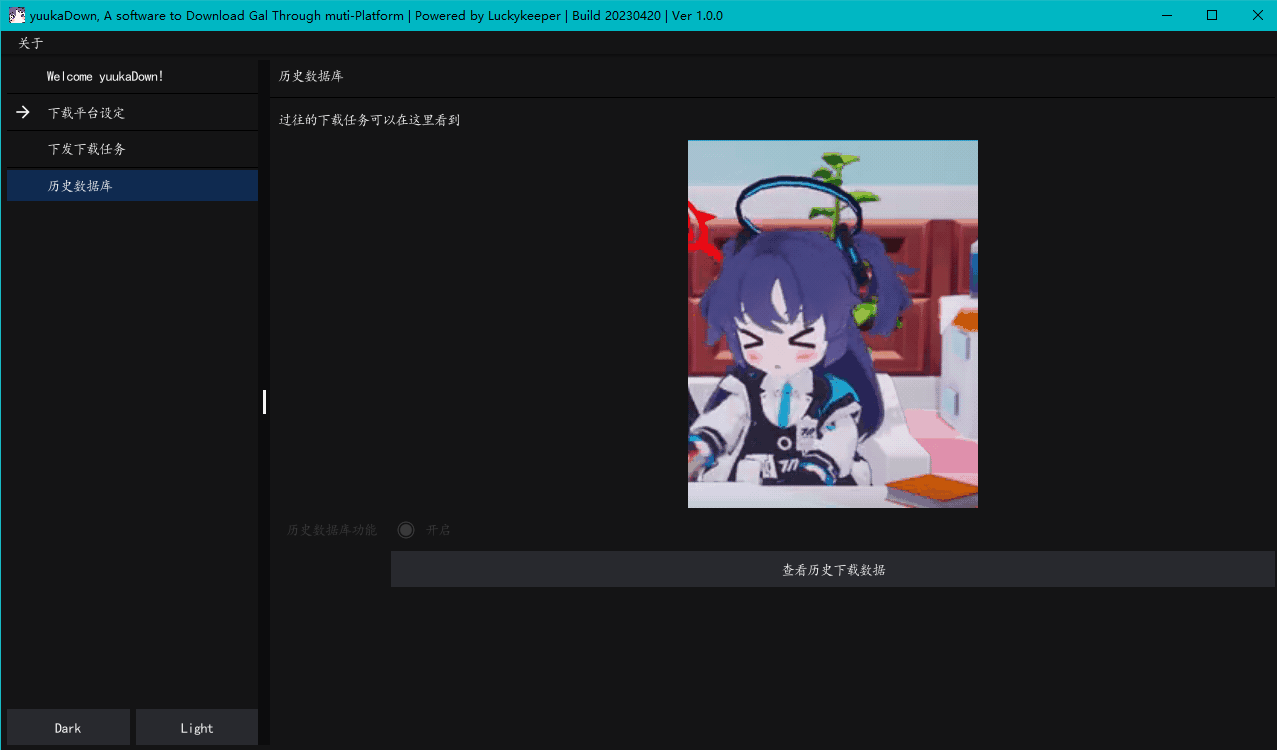
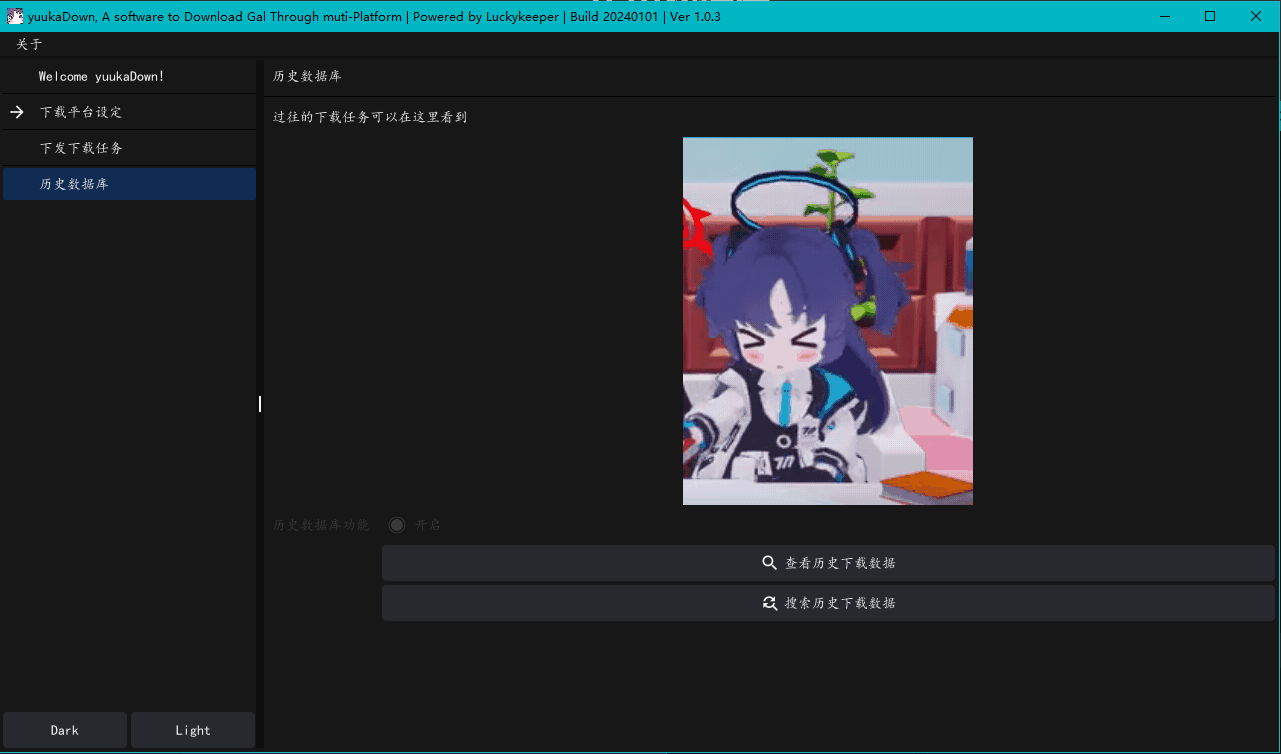
update Readme.

diff --git a/README.md b/README.md
@@ -45,9 +45,13 @@
 
 （目前没有设计历史数据库的关闭记录功能~~懒~~，~~谨防社死~~）
 
-<details>   <summary>历史数据库——二级菜单（点击展开/收合图片）</summary>   <p><img src="./images/scr04_p1.png" alt="优香酱可爱捏" style="zoom: 67%;" /></p></details>
+<details>   <summary>历史数据库——二级菜单(查看历史下载数据)（点击展开/收合图片）</summary>   <p><img src="./images/scr04_p1.png" alt="优香酱可爱捏" style="zoom: 67%;" /></p></details>
 
 按照分区显示，展开分区显示游戏名称，点击可复制链接，送“下发下载任务”即可再次下载，也可用于浏览器粘贴下载
+
+<details>   <summary>历史数据库——二级菜单(搜索历史下载数据)（点击展开/收合图片）</summary>   <p><img src="./images/scr04_p2.png" alt="优香酱可爱捏" style="zoom: 67%;" /></p></details>
+
+按照分区或名称搜索下载过的游戏，点击可复制链接，送“下发下载任务”即可再次下载，也可用于浏览器粘贴下载
 
 # 系统支持情况
 
